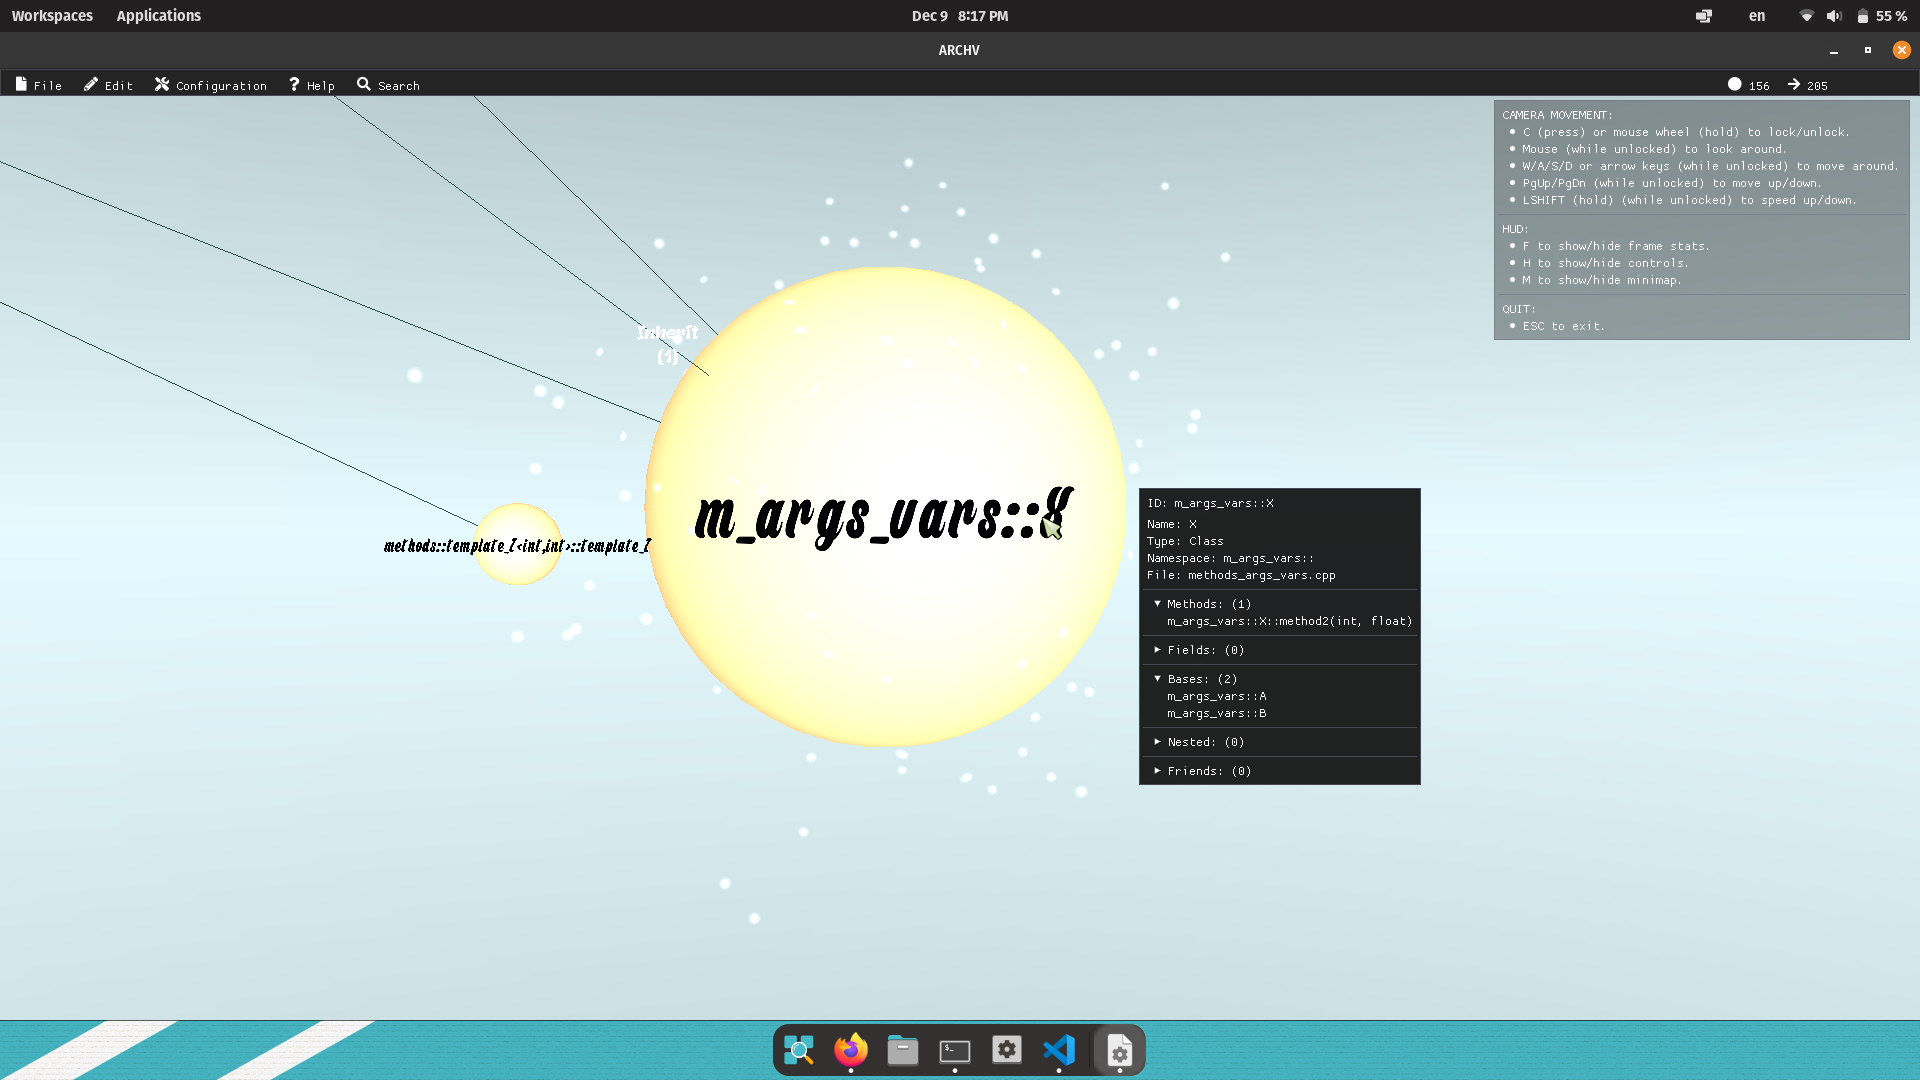
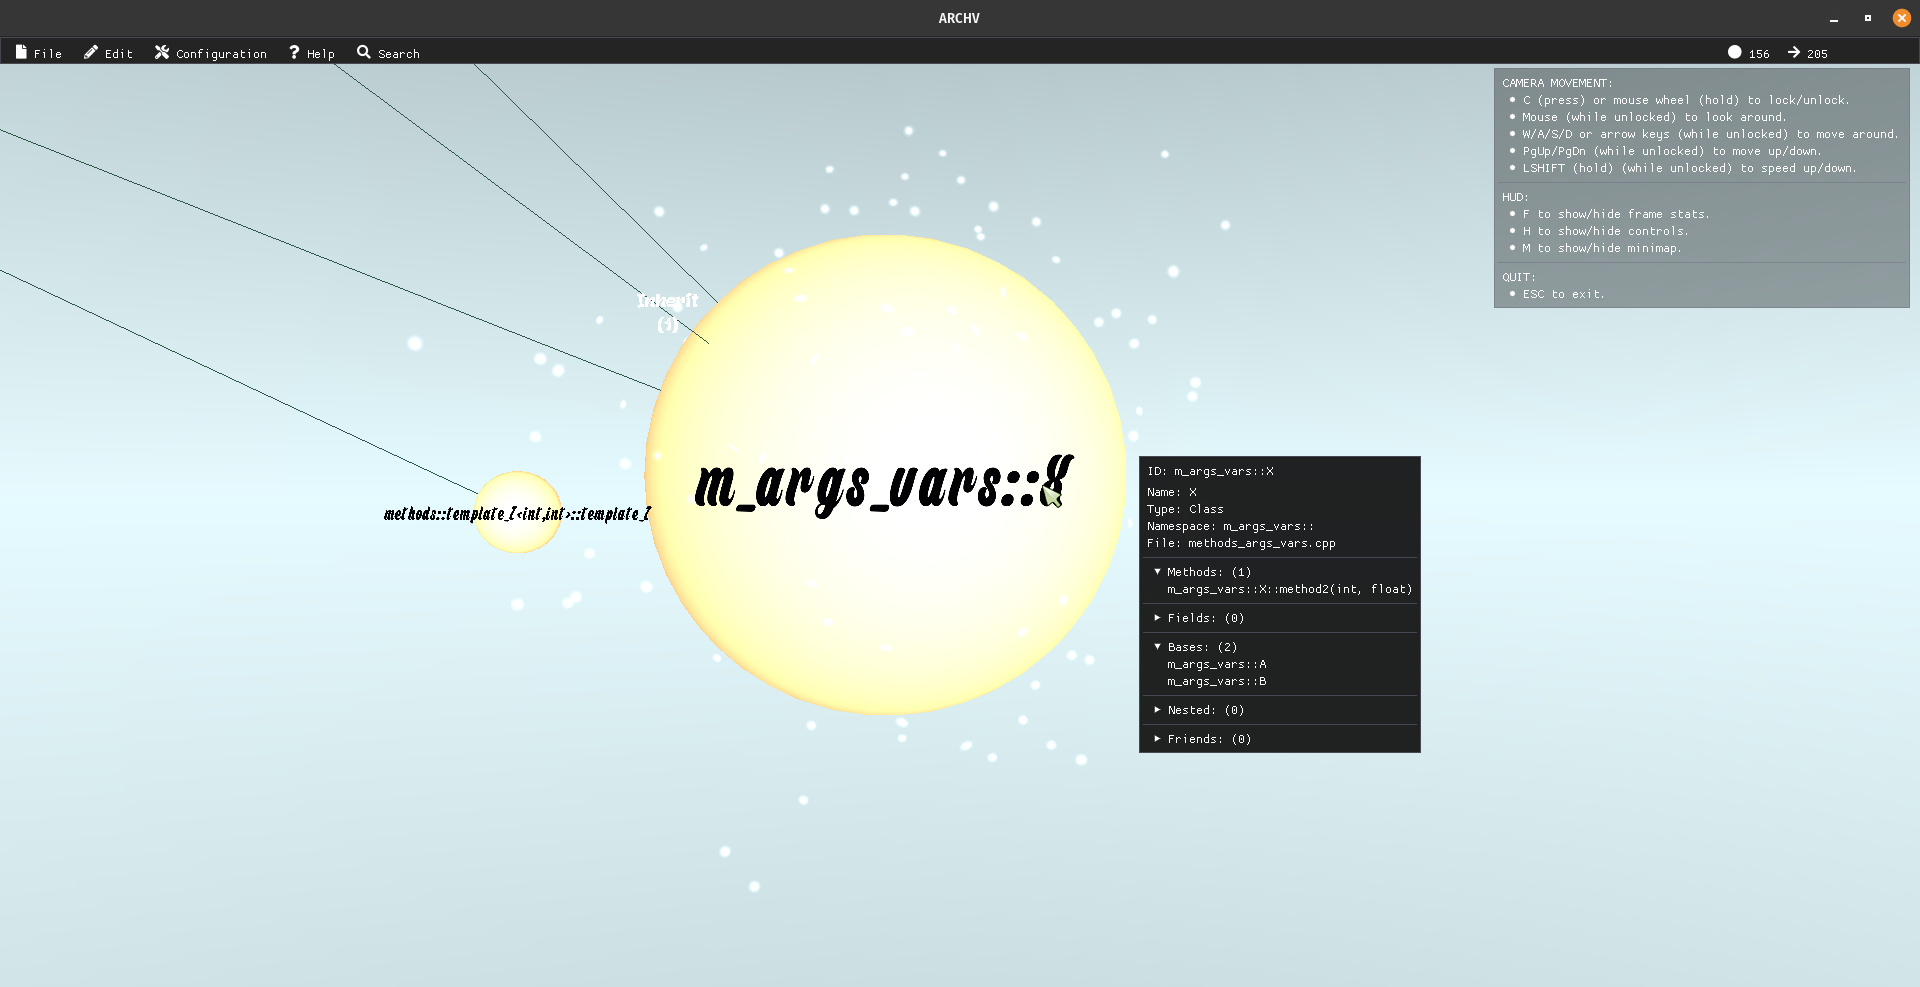
more features documentedat readme

diff --git a/README.md b/README.md
@@ -15,6 +15,11 @@ tables, in the form of a 3D graph.
 | ![](data/screenshots/3d_graph.png) | ![](data/screenshots/dynamic_illumination.png) |
 
 
+| Class Metadata inspection | Procedural edge-curve generation
+|----|----|
+| ![](data/screenshots/class_info_inspection.png) | ![](data/screenshots/procedural_edge_curves.png) |
+
+
 ## Usage
 
 
